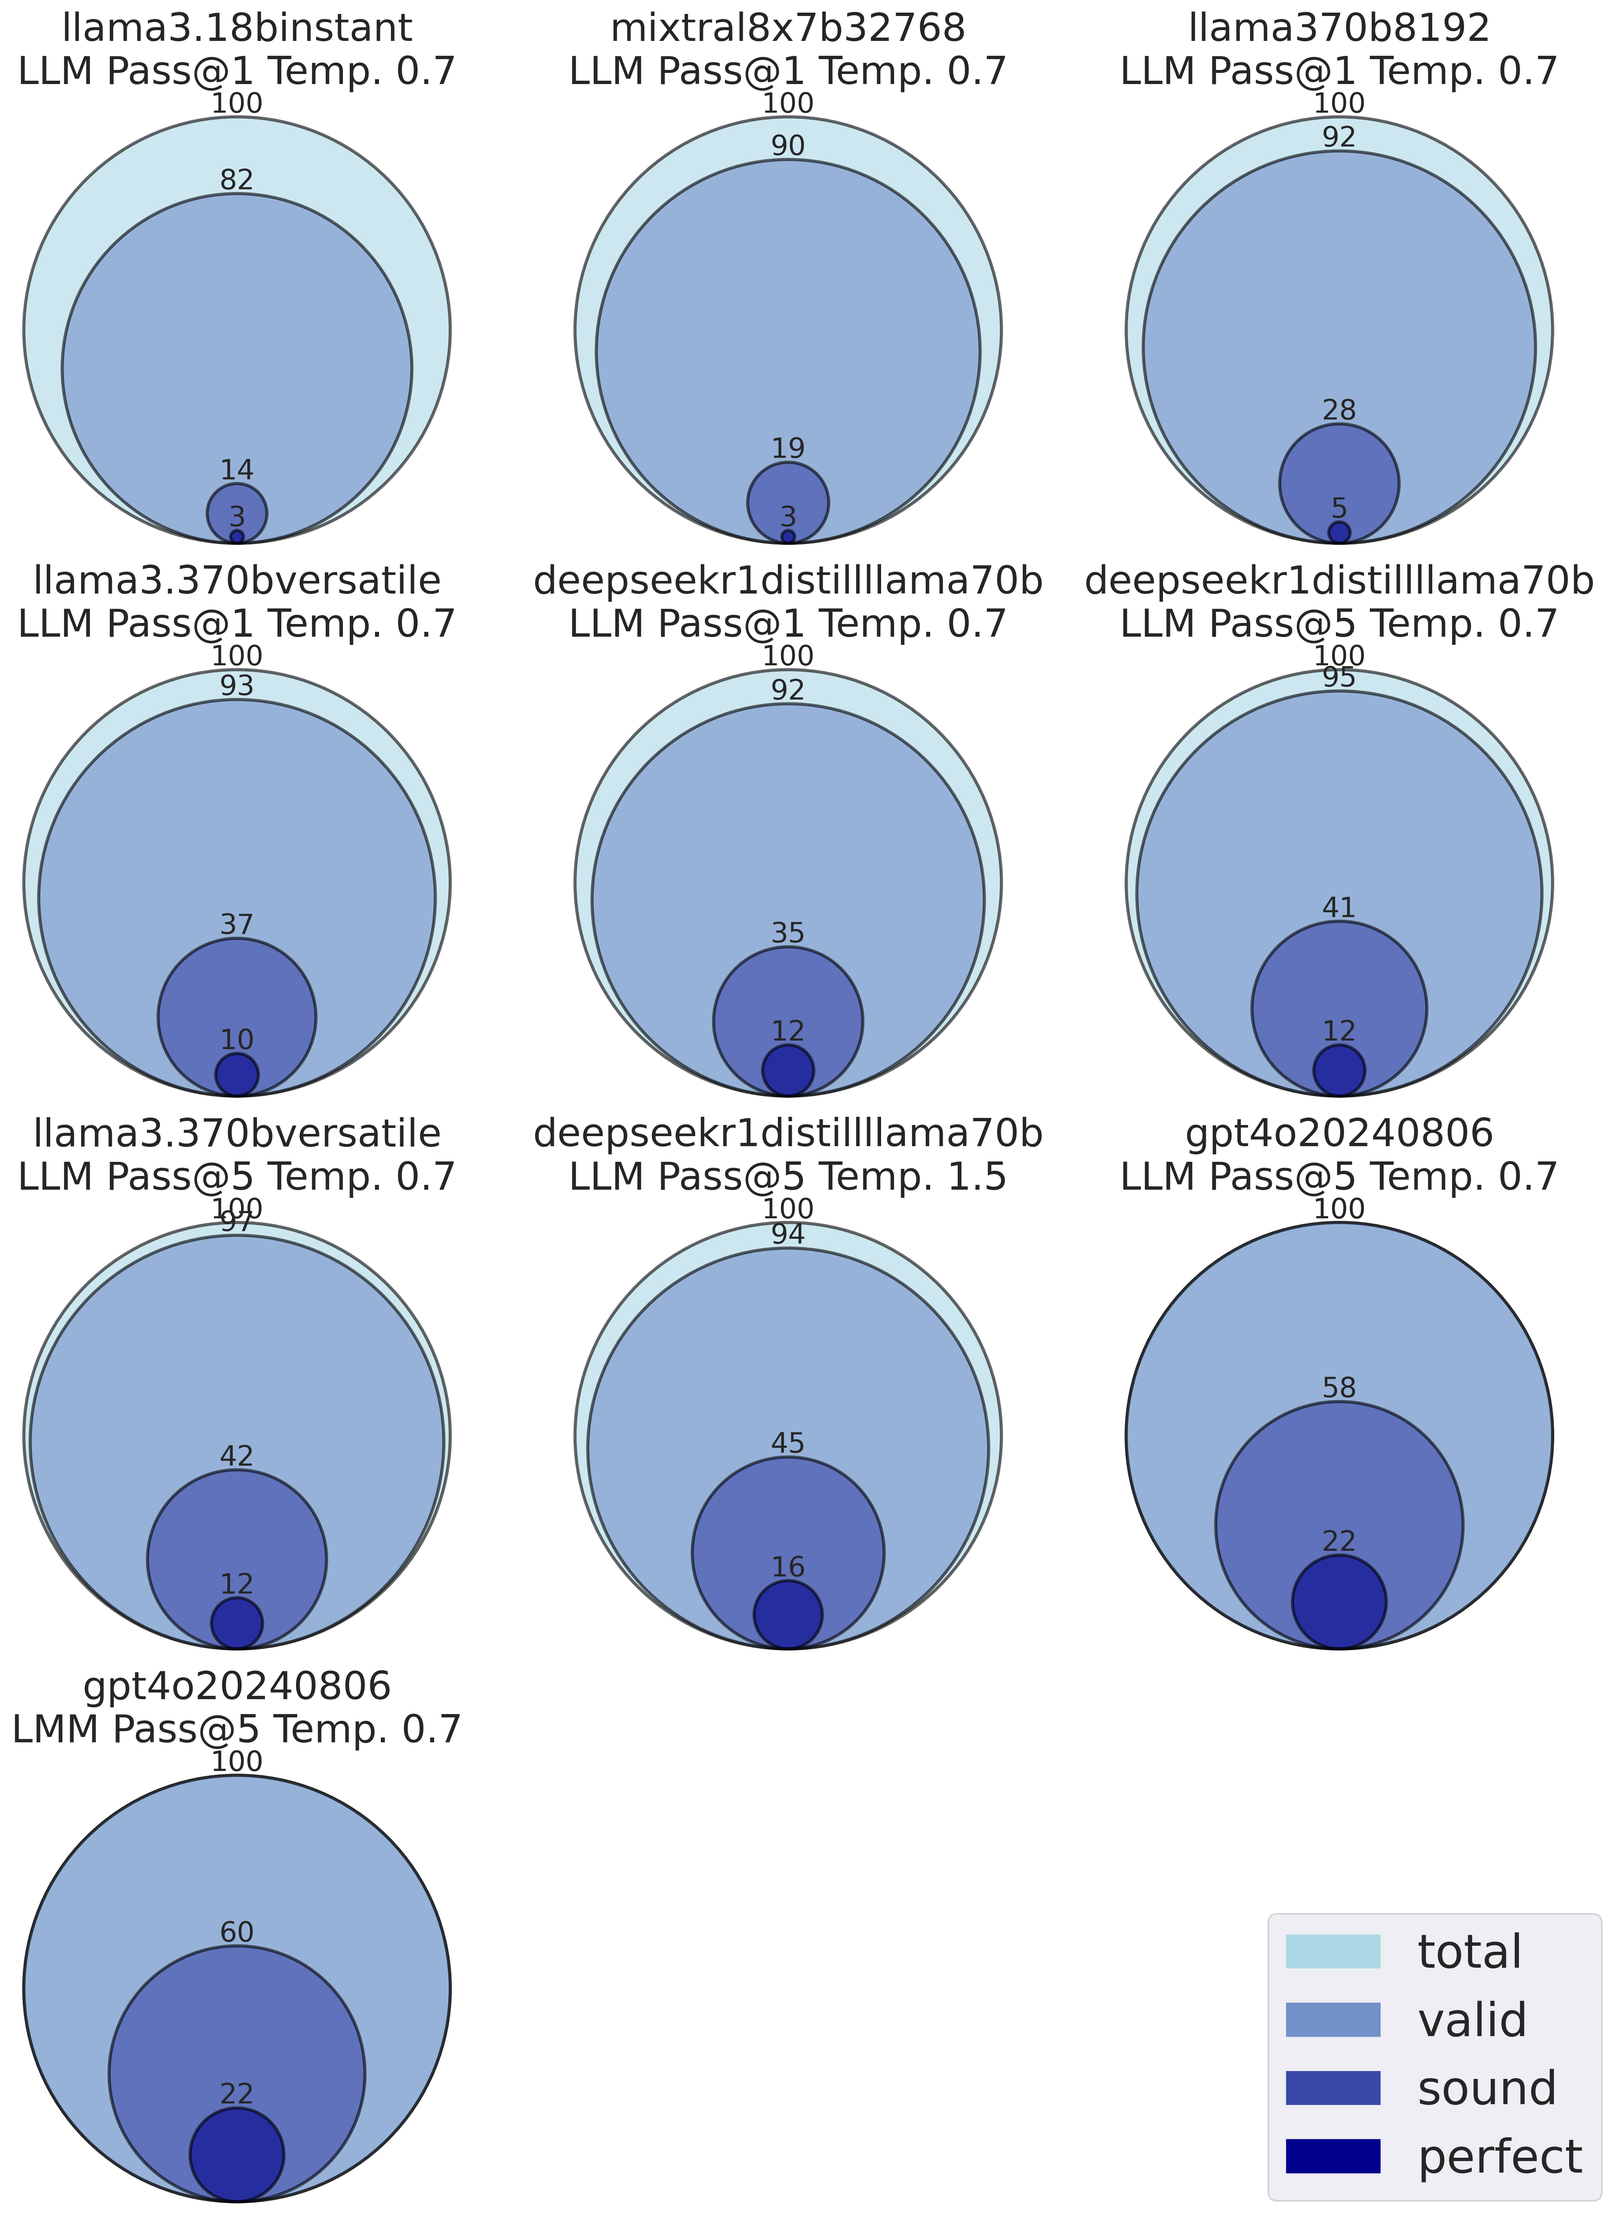
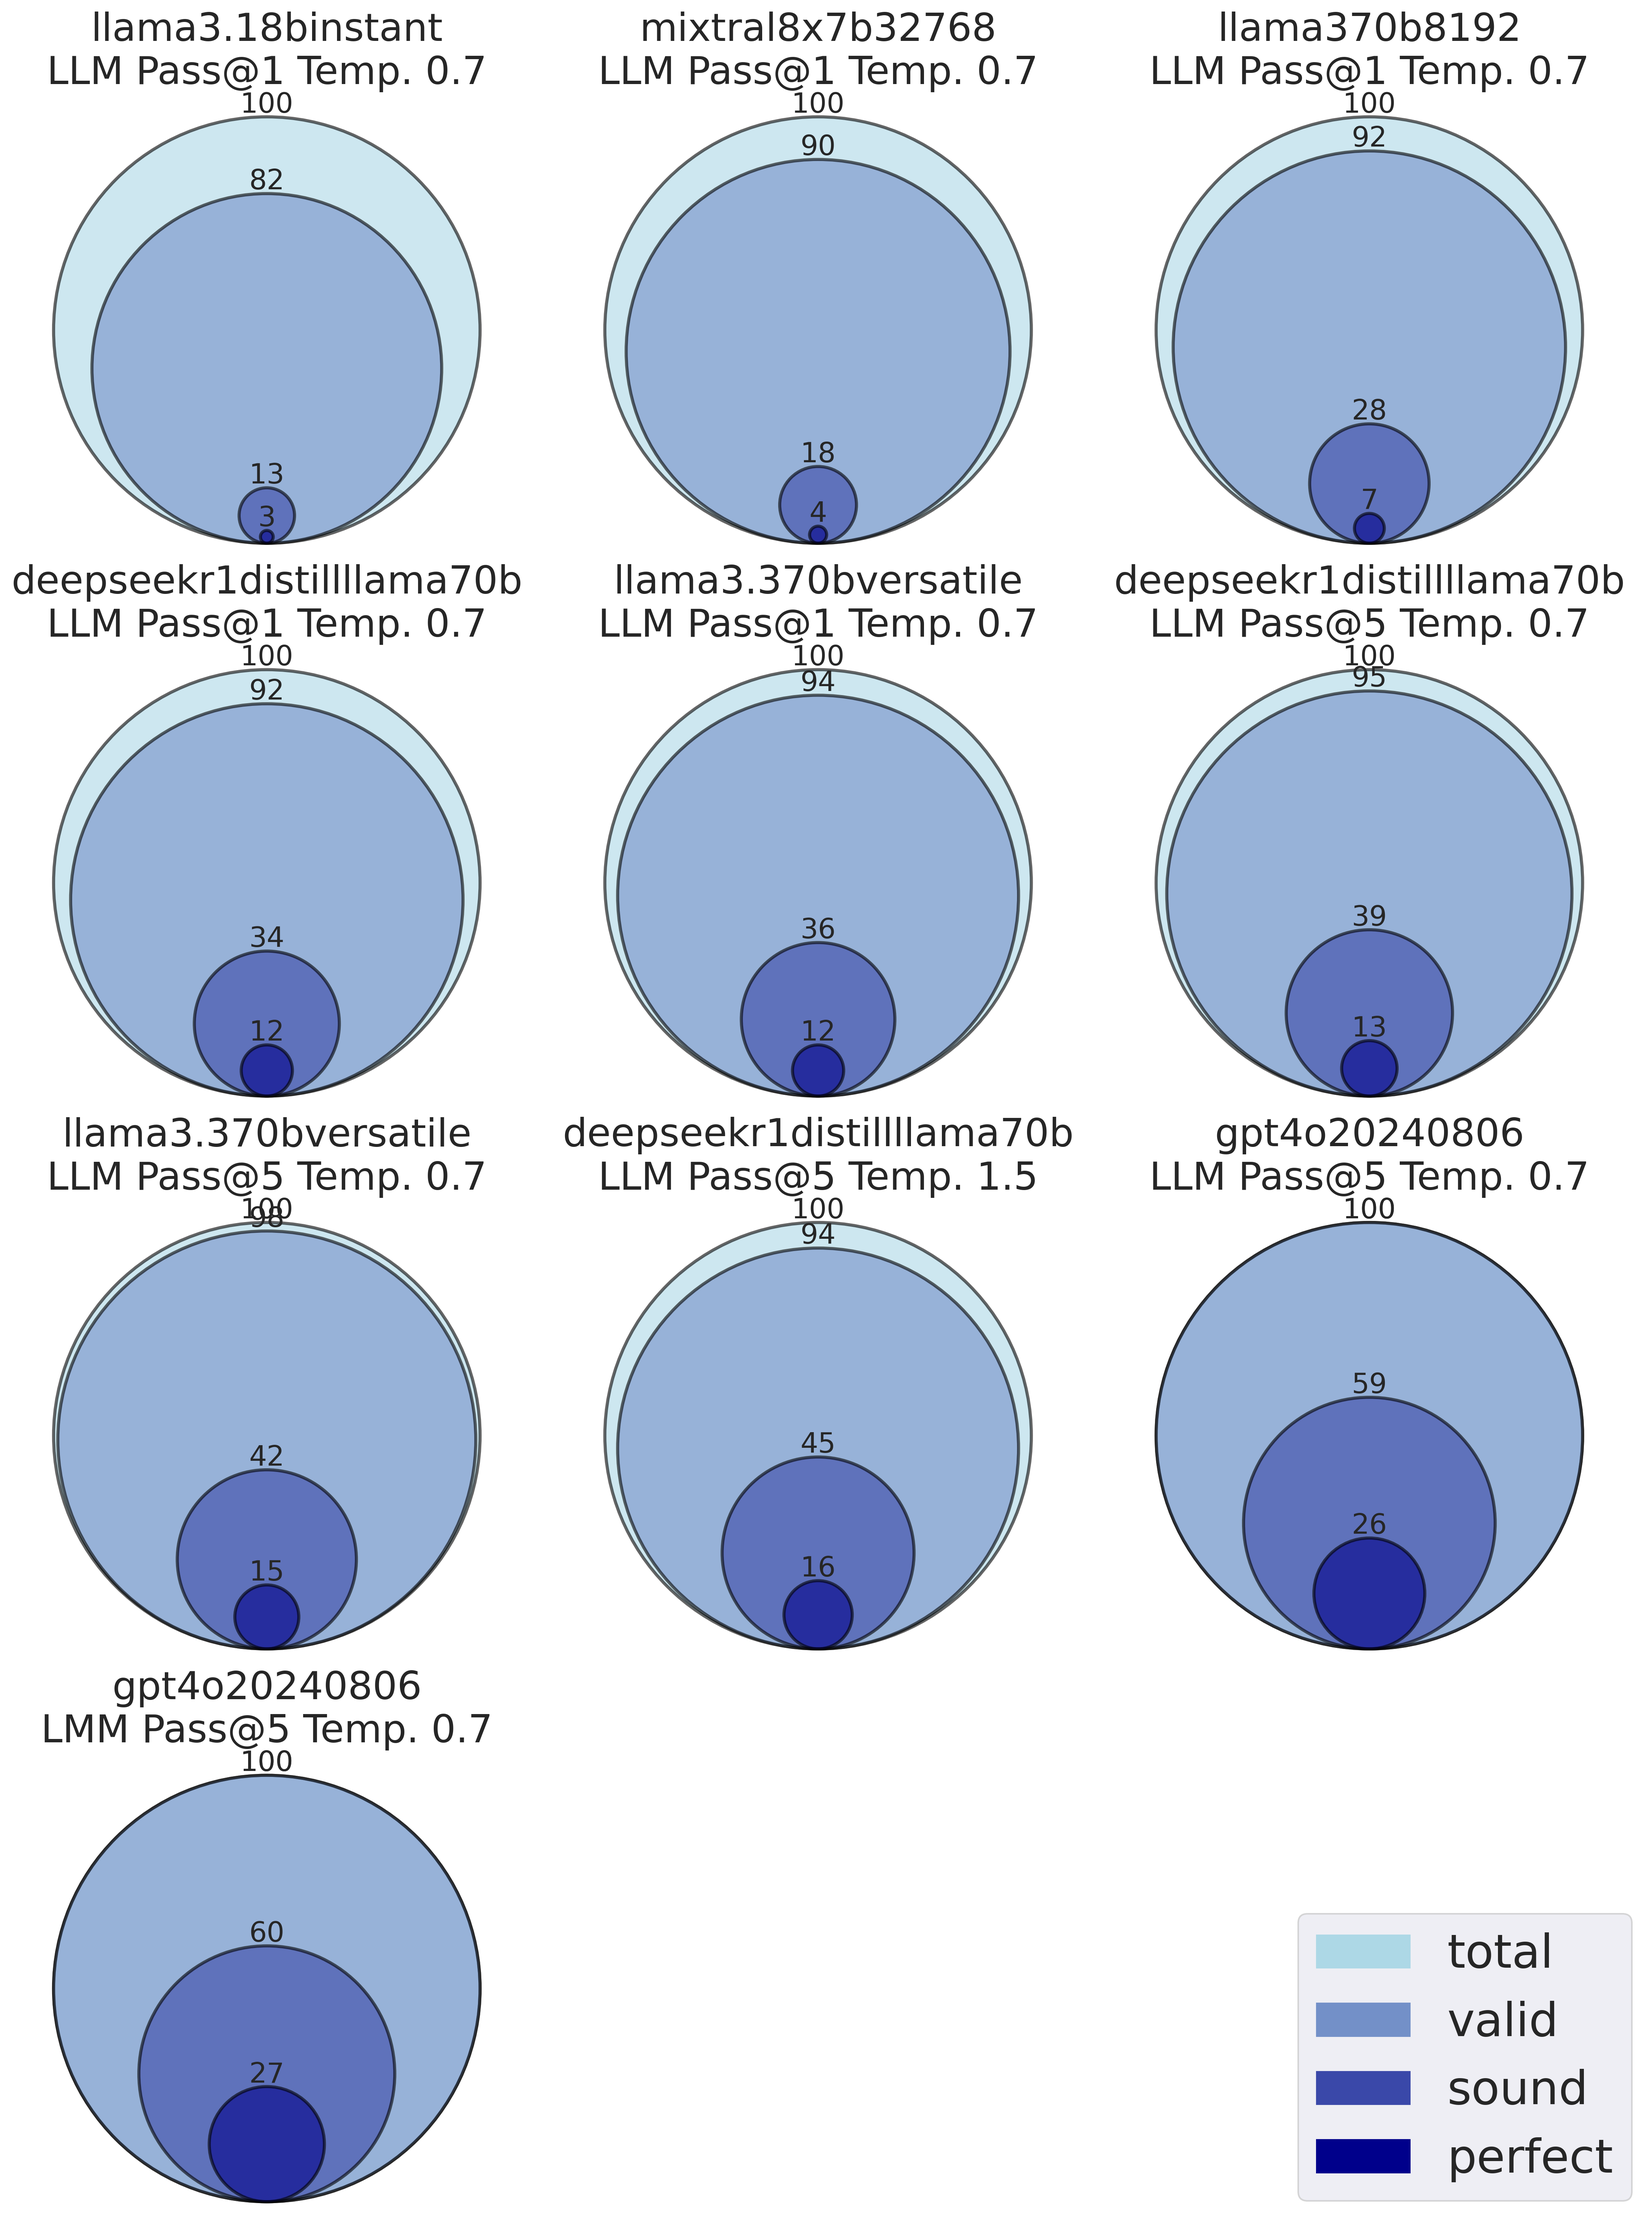
Update results

diff --git a/notebooks/results/all_results/avg_by_config.tex b/notebooks/results/all_results/avg_by_config.tex
@@ -3,16 +3,16 @@
 \toprule
 model & k & temp. & valid & Location & SuccessCustomization & CrystalBleuPatch & Line \\
 \midrule
-LLM llama3.18binstant & 1 & 0.7 & 82.0 & 14.0 & 3.0 & 18.0 & 27.8 \\
-LLM mixtral8x7b32768 & 1 & 0.7 & 90.0 & 19.0 & 3.0 & 17.6 & 31.2 \\
-LLM llama370b8192 & 1 & 0.7 & 92.0 & 28.0 & 5.0 & 28.0 & 44.4 \\
-LLM llama3.370bversatile & 1 & 0.7 & 93.0 & 37.0 & 10.0 & 36.7 & 54.0 \\
-LLM deepseekr1distillllama70b & 1 & 0.7 & 92.0 & 35.0 & 12.0 & 33.5 & 45.7 \\
-LLM deepseekr1distillllama70b & 5 & 0.7 & 95.0 & 41.0 & 12.0 & 36.6 & 57.4 \\
-LLM llama3.370bversatile & 5 & 0.7 & 97.0 & 42.0 & 12.0 & 39.7 & 58.5 \\
-LLM deepseekr1distillllama70b & 5 & 1.5 & 94.0 & 45.0 & 16.0 & 36.9 & 57.8 \\
-LLM gpt4o20240806 & 5 & 0.7 & 100.0 & 58.0 & 22.0 & 55.4 & 70.9 \\
-LMM gpt4o20240806 & 5 & 0.7 & 100.0 & 60.0 & 22.0 & 57.1 & 73.9 \\
+simpleLLM llama3.18binstant & 1 & 0.7 & 82.0 & 13.0 & 3.0 & 17.2 & 27.4 \\
+simpleLLM mixtral8x7b32768 & 1 & 0.7 & 90.0 & 18.0 & 4.0 & 17.4 & 30.7 \\
+simpleLLM llama370b8192 & 1 & 0.7 & 92.0 & 28.0 & 7.0 & 27.7 & 43.8 \\
+simpleLLM deepseekr1distillllama70b & 1 & 0.7 & 92.0 & 34.0 & 12.0 & 32.9 & 45.7 \\
+simpleLLM llama3.370bversatile & 1 & 0.7 & 94.0 & 36.0 & 12.0 & 36.0 & 52.5 \\
+simpleLLM deepseekr1distillllama70b & 5 & 0.7 & 95.0 & 39.0 & 13.0 & 36.2 & 56.0 \\
+simpleLLM llama3.370bversatile & 5 & 0.7 & 98.0 & 42.0 & 15.0 & 40.0 & 58.4 \\
+simpleLLM deepseekr1distillllama70b & 5 & 1.5 & 94.0 & 45.0 & 16.0 & 36.9 & 57.8 \\
+simpleLLM gpt4o20240806 & 5 & 0.7 & 100.0 & 59.0 & 26.0 & 54.7 & 73.1 \\
+simpleLMM gpt4o20240806 & 5 & 0.7 & 100.0 & 60.0 & 27.0 & 54.7 & 73.2 \\
 \bottomrule
 \end{tabular}
 
